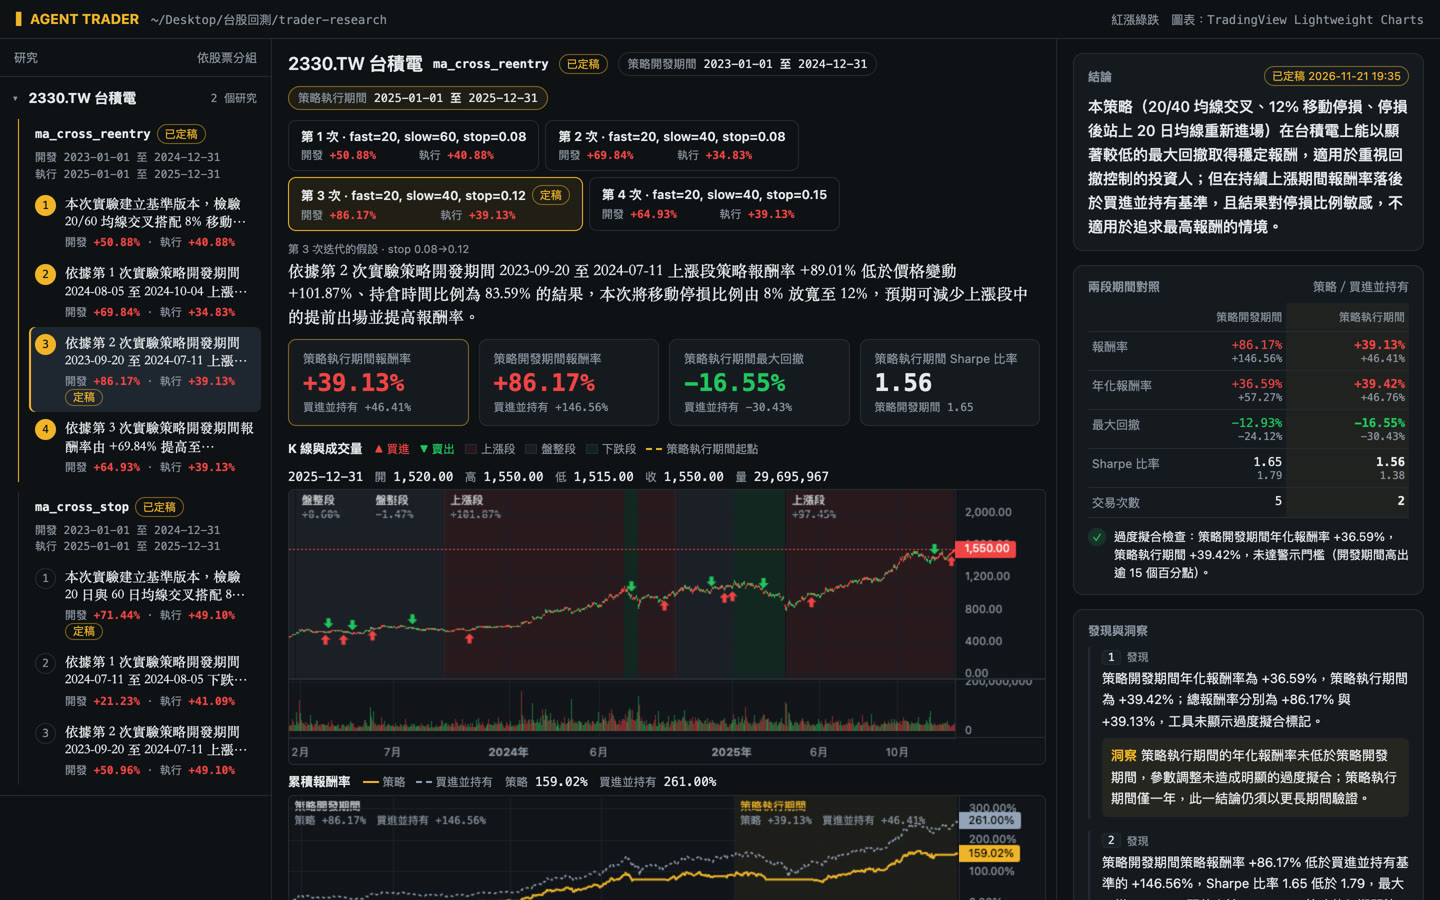
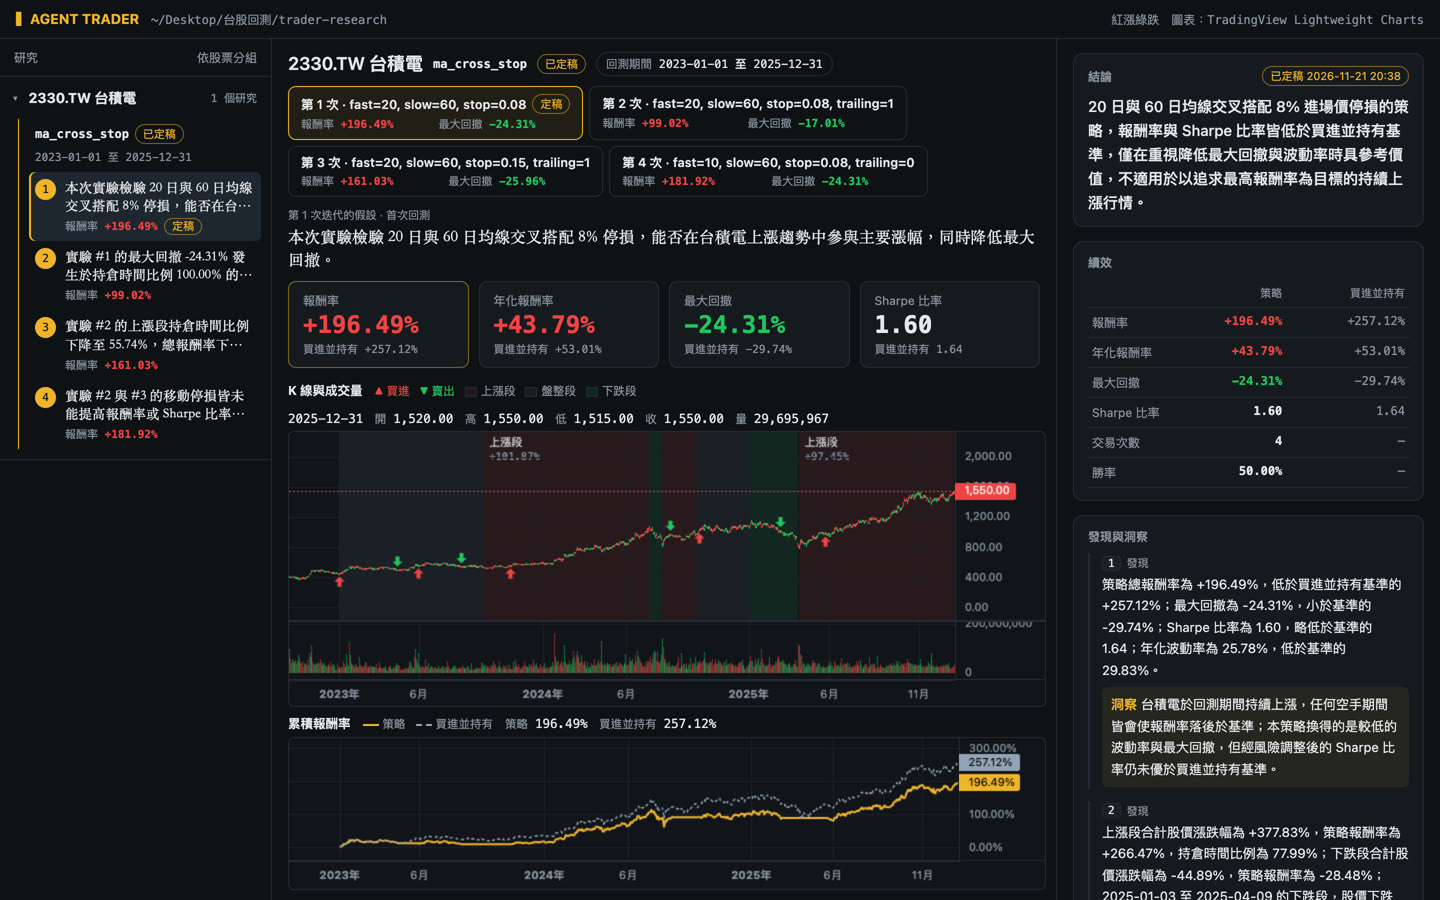
docs: README demo video and dashboard screenshot for 2.5.0 (#28)
* docs: README demo video and dashboard screenshot for 2.5.0

* docs: inline player evidence for the 2.5.0 demo

diff --git a/README.md b/README.md
@@ -6,9 +6,9 @@
 
 *English summary at the [end of this page](#english).*
 
-https://github.com/user-attachments/assets/302b4b27-0123-4f33-9b11-6b6c69221360
+https://github.com/user-attachments/assets/6d636093-63ab-43fb-83a0-ccb49cbeabfc
 
-影片為一次真實的 Claude Code 操作：說「開始使用台股回測」、用選項卡片確認條件、用自己的話加上停損，Claude 自動實驗並定稿，dashboard 同步呈現結果。
+影片為一次真實的 Claude Code 操作（2.5.0）：說「開始使用台股回測」、用選項卡片確認四項研究條件、用自己的話加上停損，Claude 自動實驗並定稿，dashboard 同步呈現結果。
 
 ## 特色
 
